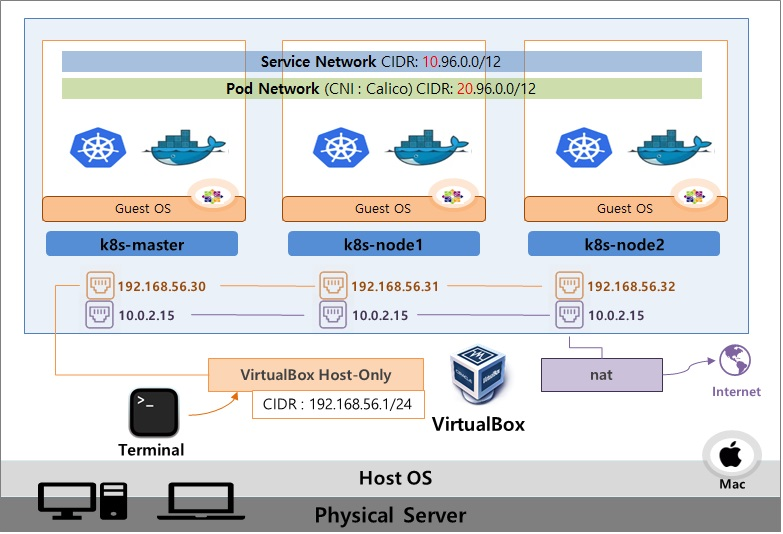
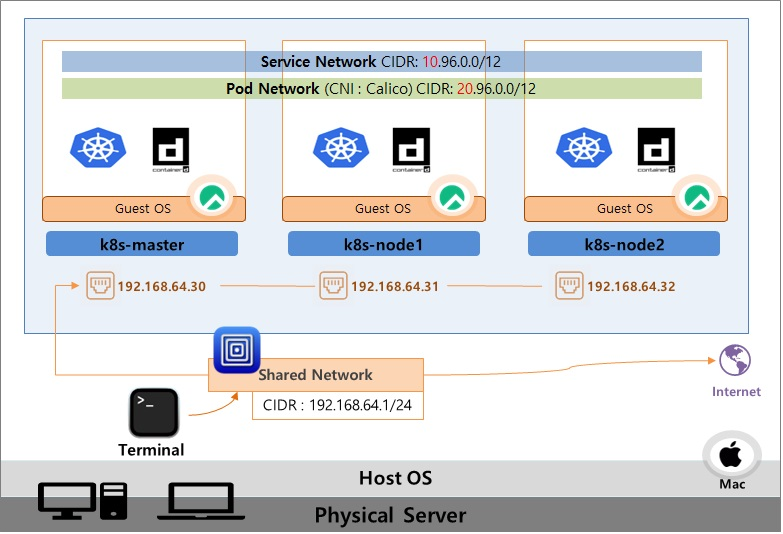
s

diff --git a/k8s/02-beginner/cluster-install-case7/index.html b/k8s/02-beginner/cluster-install-case7/index.html
@@ -32,7 +32,7 @@
  Mac M시리즈, Cpu 8core 이상, Memory 16GB 이상, 인터넷 사용 가능 환경
 "><meta itemprop="datePublished" content="2023-11-25T00:00:00+00:00" />
 <meta itemprop="dateModified" content="2023-11-25T00:00:00+00:00" />
-<meta itemprop="wordCount" content="1107">
+<meta itemprop="wordCount" content="1093">
 <meta itemprop="keywords" content="" /><meta name="twitter:card" content="summary"/>
 <meta name="twitter:title" content="k8s v1.27 버전 설치 (최신, 쉬운설치 버전)"/>
 <meta name="twitter:description" content="설치스펙 : &lt;br/&gt; 
@@ -1602,6 +1602,7 @@ j=d.createElement(s),dl=l!='dataLayer'?'&l='+l:'';j.async=true;j.src=
         <li><a href="#4-원격-접속-mac-터미널-사용">4. 원격 접속 (Mac 터미널 사용)</a></li>
         <li><a href="#5-master에-클러스터-기본-구성-설치-arm64-버전">5. master에 클러스터 기본 구성 설치 (arm64 버전)</a></li>
         <li><a href="#6-master-vm을-복사해서-node1과-node2-생성">6. master VM을 복사해서 node1과 node2 생성</a></li>
+        <li><a href="#7-maste에-클러스터-초기화-구성">7. maste에 클러스터 초기화 구성</a></li>
         <li><a href="#8-worker-ndoe-연결">8. Worker Ndoe 연결</a></li>
         <li><a href="#9-대시보드-접근">9. 대시보드 접근</a></li>
       </ul>
@@ -1924,13 +1925,11 @@ shutdown now
 <li>재시작 후 UTM에서 제공하는 창은 내리기</li>
 </ul>
 <div class="highlight"><pre style="background-color:#f8f8f8;-moz-tab-size:4;-o-tab-size:4;tab-size:4"><code class="language-cmd" data-lang="cmd">reboot
-
-
-### 7. maste에 클러스터 초기화 구성
-- UTM에서 k8s-master 실행(▶) 하고 Mac Terminal을 통해서 접속
-
-```cmd
-<span style="color:#204a87;font-weight:bold">echo</span> &#39;======== [8] kubeadm으로 클러스터 생성  ========&#39;
+</code></pre></div><h3 id="7-maste에-클러스터-초기화-구성">7. maste에 클러스터 초기화 구성</h3>
+<ul>
+<li>UTM에서 k8s-master 실행(▶) 하고 Mac Terminal을 통해서 접속</li>
+</ul>
+<div class="highlight"><pre style="background-color:#f8f8f8;-moz-tab-size:4;-o-tab-size:4;tab-size:4"><code class="language-cmd" data-lang="cmd"><span style="color:#204a87;font-weight:bold">echo</span> &#39;======== [8] kubeadm으로 클러스터 생성  ========&#39;
 <span style="color:#204a87;font-weight:bold">echo</span> &#39;======== [8-1] 클러스터 초기화 (Pod Network 세팅) ========&#39;
 kubeadm init --pod-network-cidr=20.96.0.0/12 --apiserver-advertise-address 192.168.64.30
 kubeadm token create --print-join-command <span style="color:#000;font-weight:bold">&gt;</span> ~/join.sh
@@ -1944,11 +1943,9 @@ chown $(id -u):$(id -g) $HOME/.kube/config
 kubectl create -f https://raw.githubusercontent.com/k8s-1pro/install/main/ground/k8s-1.27/calico-3.25.1/calico.yaml
 kubectl create -f https://raw.githubusercontent.com/k8s-1pro/install/main/ground/k8s-1.27/calico-3.25.1/calico-custom.yaml
 
-<span style="color:#204a87;font-weight:bold">echo</span> &#39;======== [8-4] Master에 Pod를 생성 할수 있도록 설정 ========&#39;
-kubectl taint nodes k8s-master node-role.kubernetes.io/control-plane-
-
 <span style="color:#204a87;font-weight:bold">echo</span> &#39;======== [9] 쿠버네티스 편의기능 설치 ========&#39;
 <span style="color:#204a87;font-weight:bold">echo</span> &#39;======== [9-1] kubectl 자동완성 기능 ========&#39;
+yum -y install bash-completion
 <span style="color:#204a87;font-weight:bold">echo</span> <span style="color:#4e9a06">&#34;source &lt;(kubectl completion bash)&#34;</span> <span style="color:#000;font-weight:bold">&gt;&gt;</span> ~/.bashrc
 <span style="color:#204a87;font-weight:bold">echo</span> &#39;alias k=kubectl&#39; <span style="color:#000;font-weight:bold">&gt;&gt;</span>~/.bashrc
 <span style="color:#204a87;font-weight:bold">echo</span> &#39;complete -o default -F __start_kubectl k&#39; <span style="color:#000;font-weight:bold">&gt;&gt;</span>~/.bashrc
